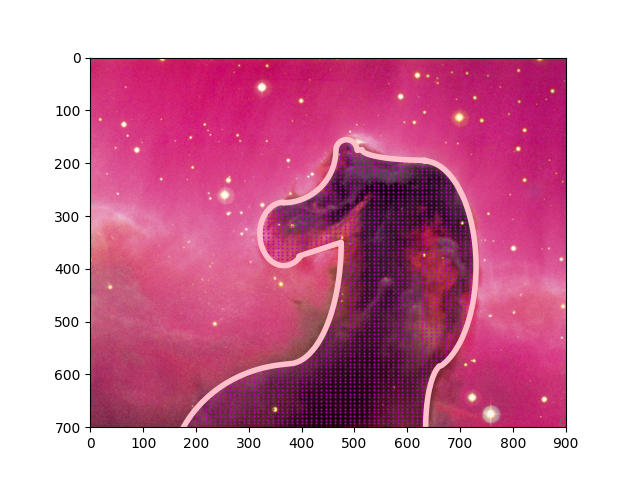
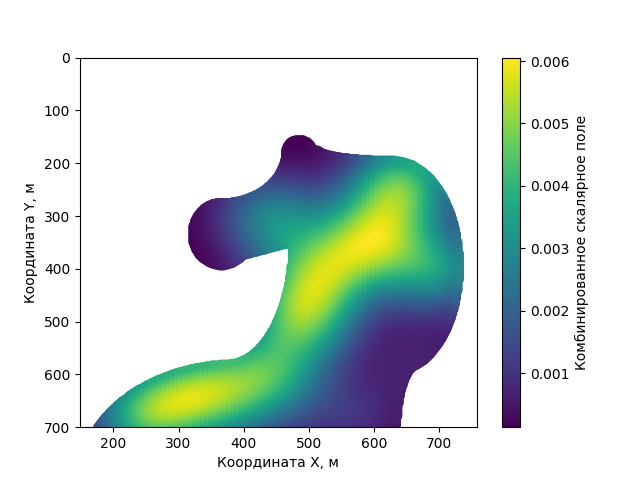
vgvkcgykgfkf

diff --git a/lec_1_head2.py b/lec_1_head2.py
@@ -85,19 +85,47 @@ for i in range(len(spline_curve[0])):
     curve_coords.append([spline_curve[0][i], spline_curve[1][i]]) 
  
 polygon = geom.Polygon(curve_coords) 
-points_number_per_side = 100 
-x_pictures_limits = [0, 900] 
-y_pictures_limits = [700, 0] 
- 
-for x_point_coord in np.linspace(*x_pictures_limits, points_number_per_side): 
-    for y_point_coord in np.linspace(*y_pictures_limits, points_number_per_side): 
-        p = geom.Point(x_point_coord, y_point_coord) 
-        if p.within(polygon): 
-            plt.plot(x_point_coord, y_point_coord, 'mo', ms = 0.5) 
+points_number_per_side = 500 
+x_pictures_limits = [-100, 900] 
+y_pictures_limits = [700, -100] 
+points_coords = []
 
+for x_point_coord in np.linspace(*x_pictures_limits, points_number_per_side):
+    for y_point_coord in np.linspace(*y_pictures_limits, points_number_per_side):
+        p = geom.Point(x_point_coord, y_point_coord)
+        if p.within(polygon):
+            points_coords.append(x_point_coord)
+            points_coords.append(y_point_coord)
 
+x_p = np.array(points_coords[0::2])
+y_p = np.array(points_coords[1::2])
 
-plt.plot(spline_curve[0], spline_curve[1], 'pink', lw=4)
+def bell_function(x, y, intensity=1, dec_rate=[0.5, 0.5]):
+    scalar_func = intensity * np.exp(- dec_rate[0]*x**2 - dec_rate[1]*y**2) 
+    return scalar_func
+
+intensity_centerums_x = [530, 500, 450, 400, 350, 400, 450, 295, 600, 620, 650, 700, 490, 250, 570, 680, 600]
+intensity_centerums_y = [400, 500, 600, 600, 625, 685, 300, 650, 350, 300, 230, 400, 450, 680, 680, 580, 450]
+intensity_values = [0.1, 0.1, 0.1, 0.01, 0.1, 0.03, 0.09, 0.06, 0.1, 0.06, 0.12, 0.1, 0.05, 0.1, 0.03, 0.02, 0.0]
+
+def scalar_function(x, y, int_cen_x, int_cen_y, int_vel):
+    scalar_field = 0.0
+    for i in range(0, len(int_cen_x)):
+        scalar_field += int_vel[i] * bell_function(x-int_cen_x[i], y-int_cen_y[i], 0.030, [0.00015, 0.00015])
+    return scalar_field
+
+scalar_fields = []
+for i in range(0, len(x_p)):
+    calculate = scalar_function(x_p[i], y_p[i], intensity_centerums_x, 
+                                intensity_centerums_y, intensity_values)
+    scalar_fields.append(calculate)
+
+fig, ax = plt.subplots()
+sc_plot = ax.scatter(x_p, y_p, c=scalar_fields)
+ax.set_ylabel('Координата Y, м')
+ax.set_xlabel('Координата X, м')
 plt.ylim(700, 0)
-plt.xlim(0, 900)
+
+cbar = fig.colorbar(sc_plot)
+cbar.set_label("Комбинированное скалярное поле")
 plt.savefig("horseapp.png")

diff --git a/orion.py b/orion.py
@@ -119,16 +119,49 @@ for i in range(len(spline_curve[0])):
  
 polygon = geom.Polygon(curve_coords) 
 points_number_per_side = 100 
-x_pictures_limits = [0, 2000] 
+x_pictures_limits = [2000, 0] 
 y_pictures_limits = [1400, 0] 
- 
+
+points_coords = []
 for x_point_coord in np.linspace(*x_pictures_limits, points_number_per_side): 
     for y_point_coord in np.linspace(*y_pictures_limits, points_number_per_side): 
         p = geom.Point(x_point_coord, y_point_coord) 
         if p.within(polygon): 
-            plt.plot(x_point_coord, y_point_coord, 'co', ms = 0.5) 
+             points_coords.append(x_point_coord)
+             points_coords.append(y_point_coord)
 
 
 
-plt.plot(spline_curve[0], spline_curve[1], 'c', lw=4)
+
+x_p = np.array(points_coords[0::2])
+y_p = np.array(points_coords[1::2])
+
+def bell_function(x, y, intensity=1, dec_rate=[0.5, 0.5]):
+    scalar_func = intensity * np.exp(- dec_rate[0]*x**2 - dec_rate[1]*y**2) 
+    return scalar_func
+
+intensity_centerums_x = [400, 700, 1200, 1000, 900]
+intensity_centerums_y = [700, 1000, 800, 550, 580]
+intensity_values = [10000, 20000, 1000, 1500, 6000]
+
+def scalar_function(x, y, int_cen_x, int_cen_y, int_vel):
+    scalar_field = 0.0
+    for i in range(0, len(int_cen_x)):
+        scalar_field += int_vel[i] * bell_function(x-int_cen_x[i], y-int_cen_y[i], 0.0030, [0.000035, 0.000035])
+    return scalar_field
+
+scalar_fields = []
+for i in range(0, len(x_p)):
+    calculate = scalar_function(x_p[i], y_p[i], intensity_centerums_x, 
+                                intensity_centerums_y, intensity_values)
+    scalar_fields.append(calculate)
+
+fig, ax = plt.subplots()
+sc_plot = ax.scatter(x_p, y_p, c=scalar_fields)
+ax.set_ylabel('Координата Y, м')
+ax.set_xlabel('Координата X, м')
+
+plt.ylim(1400, 0)
+cbar = fig.colorbar(sc_plot)
+cbar.set_label("Комбинированное скалярное поле")
 plt.savefig("orion.png")
